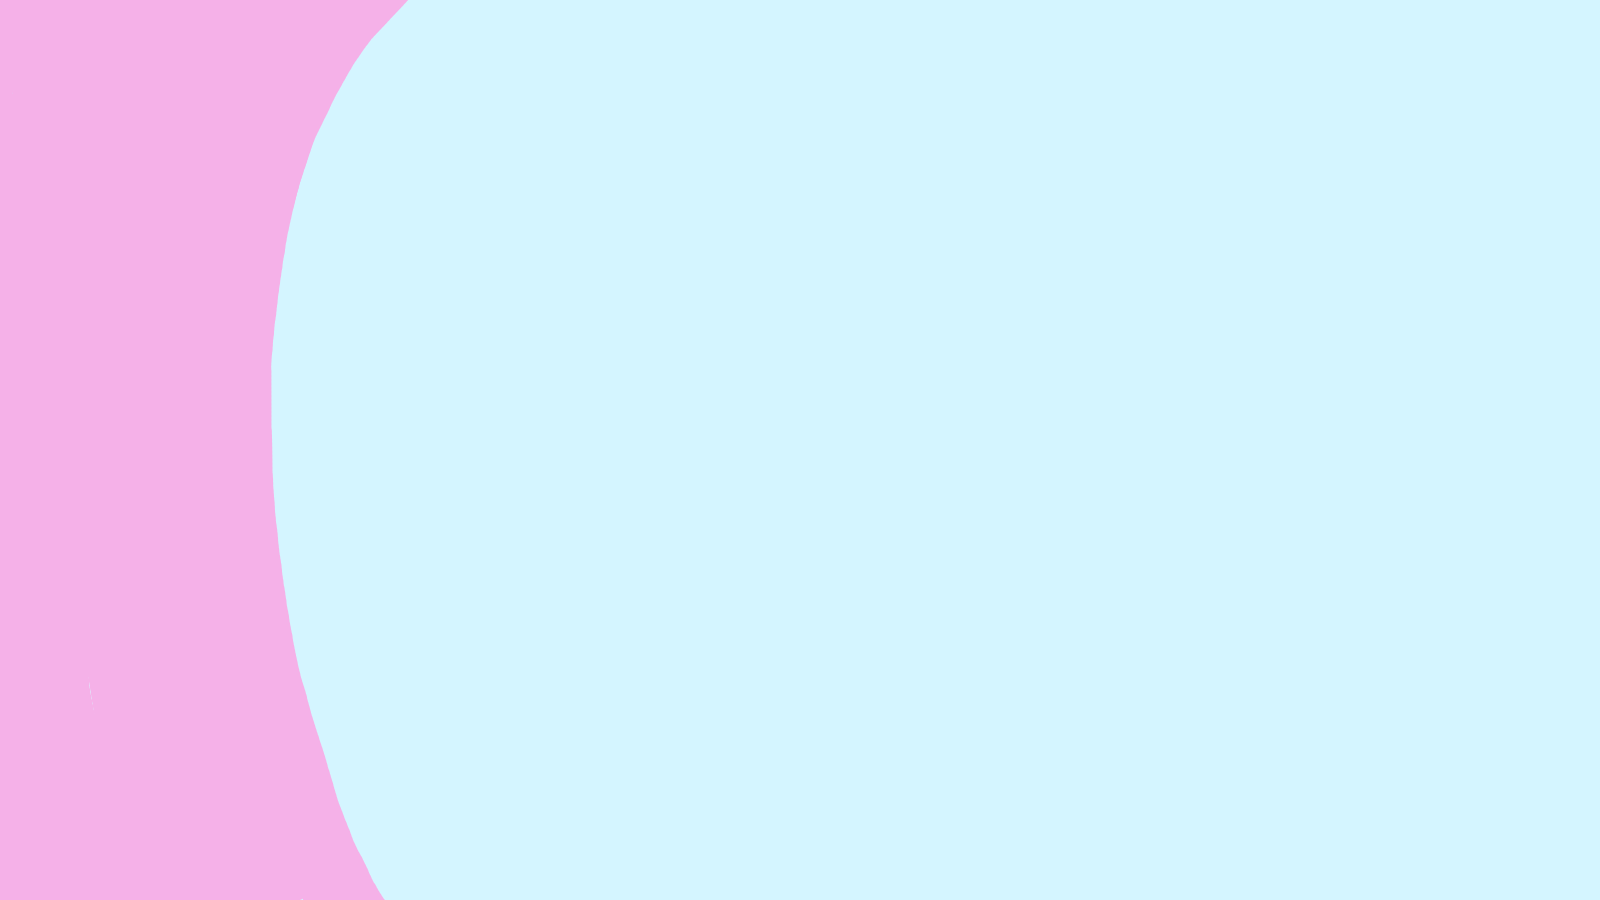
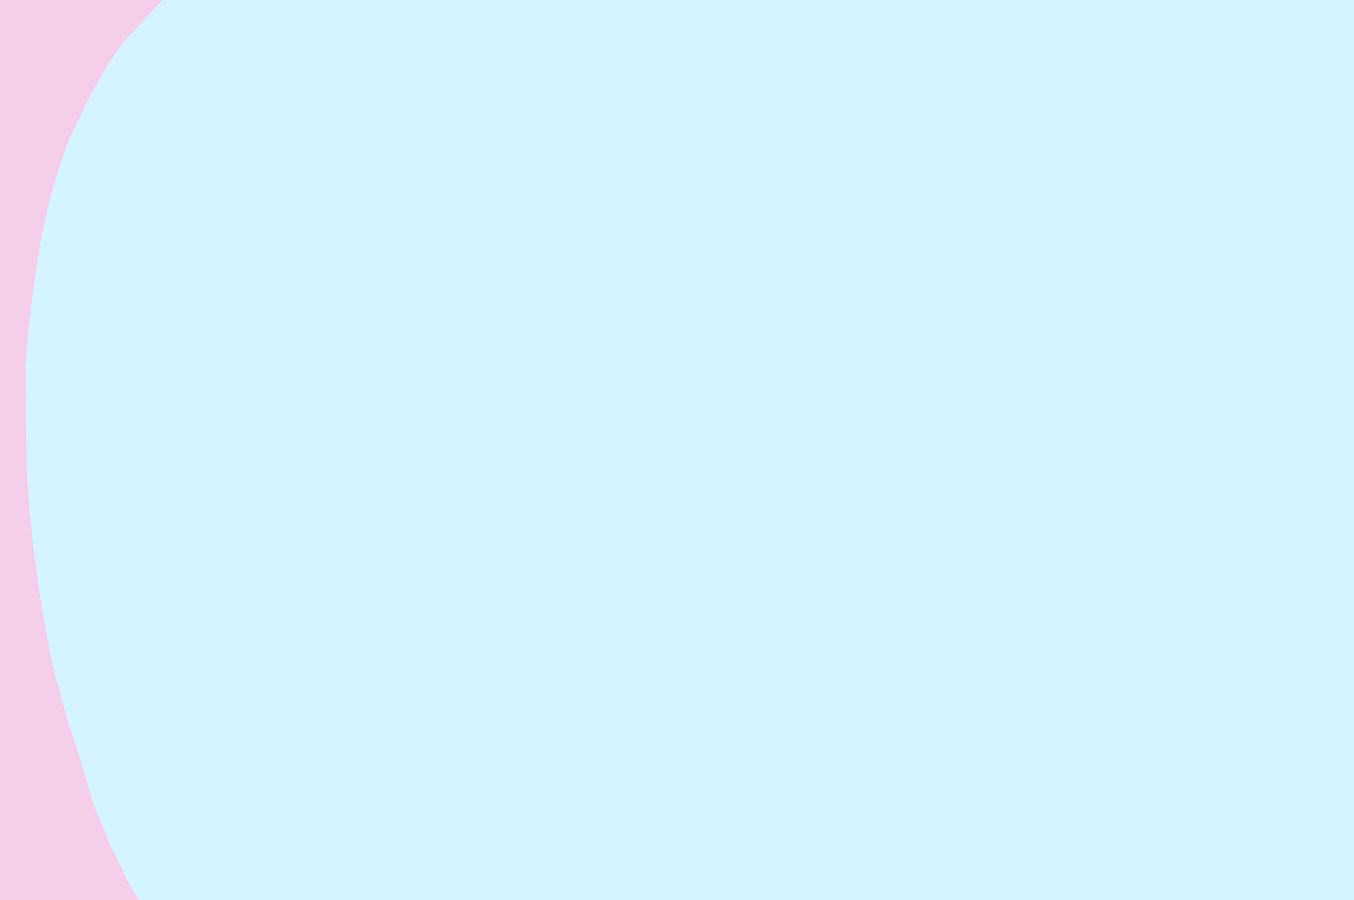
background image + updated timeline + updated slideshow

Changed region(s): [[0.0, 0.0, 0.2482, 1.0]]

diff --git a/css/style.css b/css/style.css
@@ -3,7 +3,15 @@
     padding: 0;
     font-family: 'Roboto Condensed', sans-serif;
     font-size: 25px;
+
 }
+
+body{
+    background-image: url("../img/testbacksite.png");
+    z-index: -5;
+    background-size: cover;
+}
+
 
 
 .navbar{
@@ -13,15 +21,20 @@
     display: flex;
     align-items: center;
     text-transform: uppercase;
-    background-color: #ffebd4;
     position: sticky;
     top: 0;
+    z-index: 1;
+    background-color: #f6ceea;
+
+
 }
 
 .logo{
     margin-left: 20px;
     width: 120px;
     cursor: pointer;
+    z-index: 1;
+
 }
 nav{
     flex: 1;
@@ -30,17 +43,17 @@ nav{
 
 }
 
-nav ul li{
+nav ul li {
     display: inline-block;
     list-style: none;
     margin: 0 20px;
-
 }
 
 nav ul li a{
     text-decoration: none;
     color: #333;
     text-align: center;
+
 }
 
 
@@ -50,20 +63,25 @@ nav ul li a{
     margin-top: 7%;
     margin-right: 5%;
     margin-bottom: 2%;
+    z-index: 1;
+
 }
 
 .content h1{
     font-size: 45px;
     margin-top: 24px;
     margin-bottom: 15px;
+
 }
 .content h2{
     font-size: 30px;
     margin-top: 30px;
     margin-bottom: 7px;
+
 }
 .content p{
     font-size: 20px;
+
 }
 .content .button{
     display: inline-block;
@@ -74,6 +92,8 @@ nav ul li a{
     color: #333333;
     position: sticky;
     top: 130px;
+    z-index: 2;
+
 }
 
 .content .button:hover{
@@ -87,17 +107,20 @@ nav ul li a{
 .content .link{
     text-decoration: none;
     color: #333333;
+
 }
 
 .banner{
     width: 100%;
     height: 100vh;
+
 }
 .Slideshow{
     height: 85%;
     position: absolute;
     filter: blur(3px);
     z-index: -1;
+
 }
 
 

diff --git a/pages/aboutUs/timeline.html b/pages/aboutUs/timeline.html
@@ -40,10 +40,20 @@
     </p>
     <h2>From February to April:</h2>
     <p>
-        During this period of the projet, we have faced both human and developing challenges.
+        During this period of the project, we have faced both human and developing challenges.
         This led us to adapt our group strategy. However, as a group, we managed to stay efficient.
         Indeed, despite some unexpected disruptions, we have built a functional game.
         Although it is not at its final state yet, we can be proud of the progress that has been made by BigHappyDove.
+    </p>
+    <h2>From April until the end of the project</h2>
+    <p>
+        This last period of work was perhaps the most important one.
+        Indeed, after June, we will not have another chance to update our game.
+        Therefore, every single aspect of the project needs to be completed in time.
+        Not only did we need to advance concerning the technical side, enabling a fluid gameplay;
+        but we also had to make great progress on the aesthetic aspect.
+        In order to truly be completed, Party Blowout! needs to appeal to our player's eye.
+        Thus, these were what we focused on, for the final part of our time working together with the BigHappyDove team.
     </p>
 </section>
 </body>

diff --git a/index.html b/index.html
@@ -21,10 +21,10 @@
     </nav>
 </div>
 
-<img class="Slideshow" src="img/slideshow/maptest.png" style="width: 100%" alt="0">
-<img class="Slideshow" src="img/slideshow/coursefruitee.png" style="width: 100%" alt="0">
-<img class="Slideshow" src="img/slideshow/menubg.png" style="width: 100%" alt="0">
-<img class="Slideshow" src="img/slideshow/avocatTuning.png" style="width: 100%" alt="0">
+<img class="Slideshow" src="img/slideshow/BNmenu.png" style="width: 100%" alt="0">
+<img class="Slideshow" src="img/slideshow/mapneige.png" style="width: 100%" alt="0">
+<img class="Slideshow" src="img/slideshow/CFmenu.png" style="width: 100%" alt="0">
+<img class="Slideshow" src="img/slideshow/coursefruiteev3.png" style="width: 100%" alt="0">
 
 <div class="content">
     <h1>BigHappyDove</h1>
@@ -52,5 +52,6 @@
         setTimeout(slides, 6000);
     }
 </script>
+
 </body>
 </html>

diff --git a/pages/aboutUs/aboutUs.html b/pages/aboutUs/aboutUs.html
@@ -9,6 +9,7 @@
     <title>About us</title>
 </head>
 <body>
+
 <div class="navbar">
     <img src="../../img/logo/smallestBHD.png" class="logo">
     <nav>
@@ -28,5 +29,6 @@
     <p>Our team of game developers is formed with four students from EPITA.
         <br>We will, with this site, help you discover our brand new game: Party Blowout!.</p>
 </section>
+
 </body>
 </html>

diff --git a/pages/aboutUs/members.html b/pages/aboutUs/members.html
@@ -9,6 +9,7 @@
     <title>About us - Members</title>
 </head>
 <body>
+
 <div class="navbar">
     <img src="../../img/logo/smallestBHD.png" class="logo">
     <nav>
@@ -66,5 +67,6 @@
         I hope that my curiosity and motivation will enable me to be an effective member of our project’s team.
     </p>
 </section>
+
 </body>
 </html>
